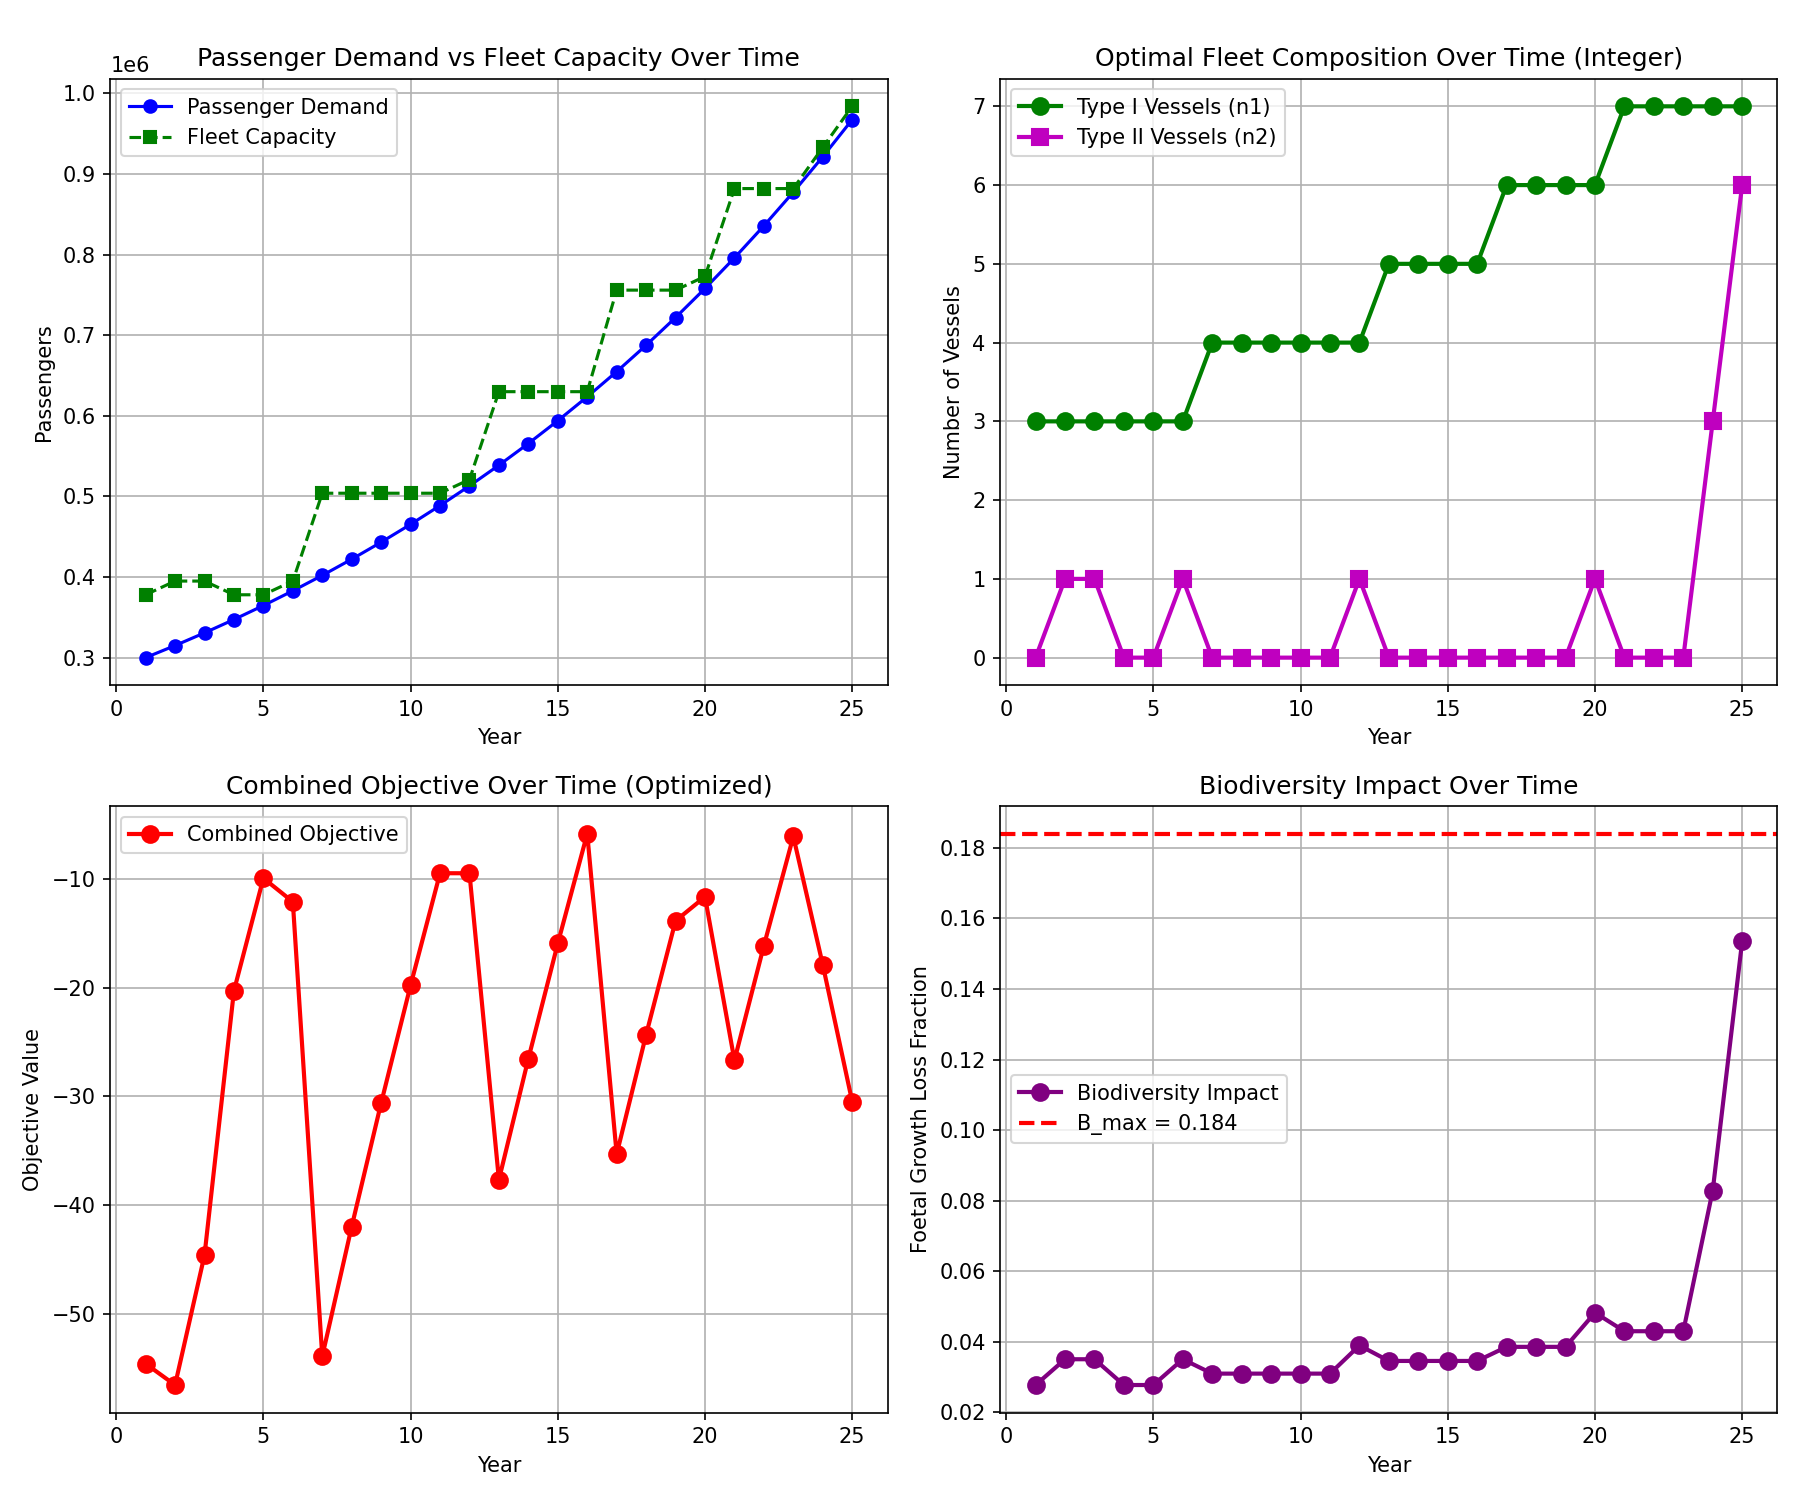
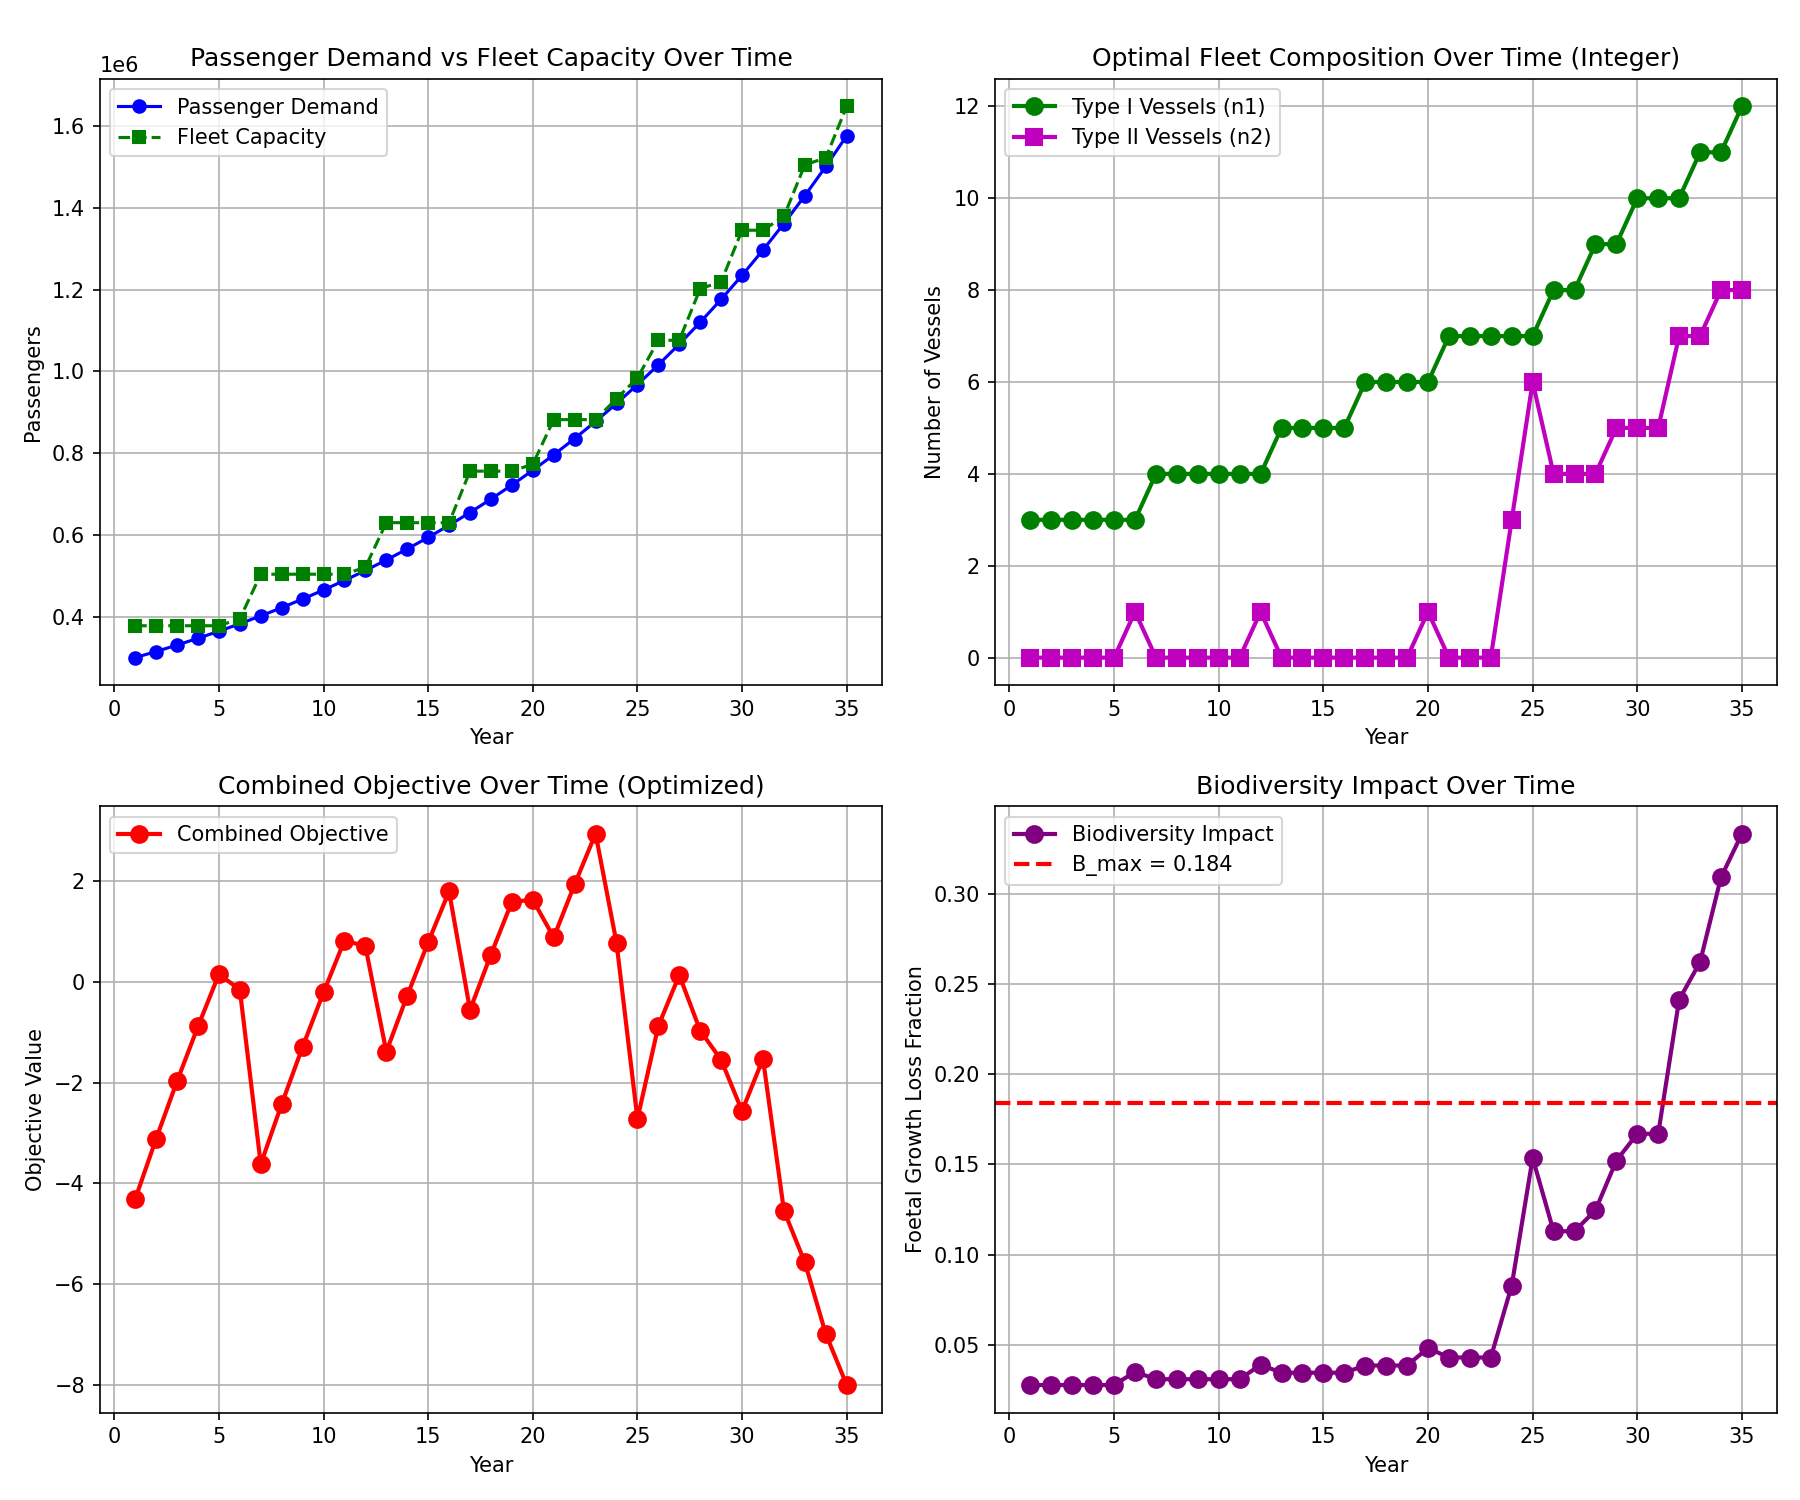
woho

diff --git a/En_eller_anden_simulering.py b/En_eller_anden_simulering.py
@@ -16,7 +16,7 @@ p_enc = 0.05 # probability of repeatedly encountering the same whales
 
 e1 , e2 = 2.36*10**(-3), 41.63*10**(-3) # GHG per passenger-trip (tCO2eq per passenger trip , type I, type II)
 
-hb1 , hb2 = 43.95/(th1*60), 118.6/(th2*60) # minutes -of -life gained per passenger-hour with whales (type I, type II)
+hb1 , hb2 = 43.95/(th1), 118.6/(th2) # minutes -of -life gained per passenger-hour with whales (type I, type II)
 
 # Biodiversity logistic regression coefficients
 a = -4.97 # intercept of logistic model
@@ -30,9 +30,9 @@ P_start = 300000 # initial passenger demand
 # Weights
 w_H = 2.0 # weight on health benefit term
 w_P = 1.0 # weight on passengers served term
-w_C = 10.0 # weight on carbon penalty term
+w_C = 1.0 # weight on carbon penalty term
 w_B = 2.0 # weight on biodiversity penalty term
-w_cap = 200.0 # weight on excess capacity penalty term
+w_cap = 20.0 # weight on excess capacity penalty term
 
 def passengers(n1 , n2, L=130, t1=2, t2=2, cap1=20, cap2=100):
     Ptot = L * (n1 * t1 * cap1 + n2 * t2 * cap2)
@@ -91,7 +91,7 @@ def passenger_demand(year , P0=10 , growth_rate =0.05):
     return P0 * (1.0 + growth_rate)**( year - 1)
 
 # Evaluate combined objective over years
-years = np.arange(1, 26)  # years 1 to 25
+years = np.arange(1, 36)  # years 1 to 25
 growth_rate = 0.05  # 5% annual growth in passenger demand
 
 # Compute reference metrics from initial reference fleet
